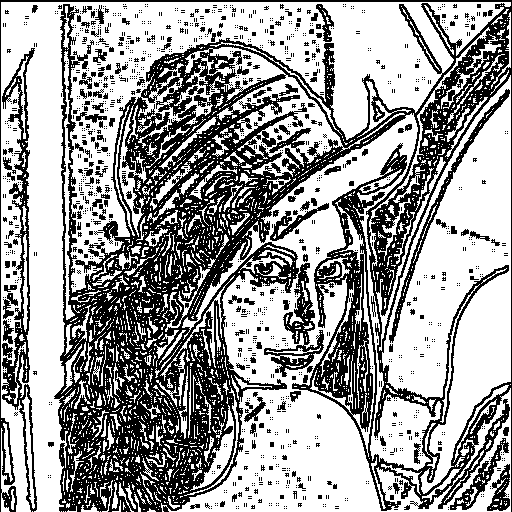
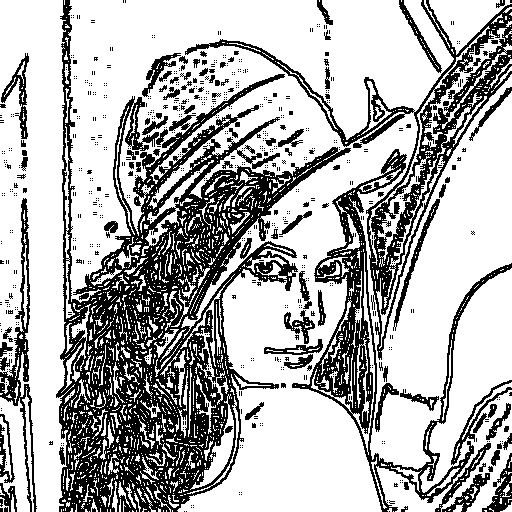
VP functionally done, timing needs to be added.

diff --git a/spec/VP/cpu.cpp b/spec/VP/cpu.cpp
@@ -7,9 +7,11 @@ using namespace std;
 SC_HAS_PROCESS(cpu);
 cpu::cpu(sc_module_name name) : sc_module(name)
 {
+
     SC_THREAD(CPU_process); // Is it thread tho?
     //SC_METHOD(zeroCrossingTest);
     //sensitive << conv::conv_end;
+    CPU_conv_ic_tsoc.register_b_transport(this, &cpu::b_transport);
     SC_REPORT_INFO("CPU", "Platform is constructed.");
 }
 
@@ -153,16 +155,17 @@ void cpu::zeroCrossingTest()
     //TESTING PURPOSES
     //convOut = inputArray;
     //ENDING TEST
+    cout << "1" << endl;
     int sourceHeight = convOut.size();
     int sourceWidth = convOut[1].size();
 
     int negCouter;
     int posCoutner;
-    convOut1D tempMatrixRow;
-
+    matrix1D tempMatrixRow;
+    cout << "2" << endl;
     for (int i = 1; i < sourceHeight - 1; i++)
     {
-        convOut.push_back(tempMatrixRow);
+        outputArray.push_back(tempMatrixRow);
         for (int j = 1; j < sourceWidth - 1; j++)
         {
             negCouter = 0;
@@ -184,11 +187,14 @@ void cpu::zeroCrossingTest()
                     }
                 }
             }
-            outputArray[i - 1].push_back(NO_EDGE);
+            //cout << "op op " << endl;
             if (negCouter > 0 && posCoutner > 0)
             {
                 outputArray[i - 1].push_back(EDGE);
+            }else{
+            outputArray[i - 1].push_back(NO_EDGE);
             }
+            //cout<< "proslo" << endl; 
         }
     }
     SC_REPORT_INFO("CPU", "Zero crossing done.");
@@ -196,7 +202,7 @@ void cpu::zeroCrossingTest()
 
 void cpu::CPU_process()
 {
-    
+
     //sc_core::sc_time loct = sc_core::SC_ZERO_TIME;
     sc_time loct;
     tlm_generic_payload pl;
@@ -233,7 +239,6 @@ void cpu::CPU_process()
 
     writeReadyToConv();
 
-
     //zeroCrossingTest(); // ZC can be tested after convolution is made. Untill then it stays commented.
 
     //writeImageToFile();
@@ -250,35 +255,38 @@ void cpu::b_transport(pl_t &pl, sc_time &offset)
     unsigned int len = pl.get_data_length();
     switch (cmd)
     {
-        case TLM_WRITE_COMMAND:
-            switch (address)
-            {
-            case VP_ADDR_CPU:
-                convOut = *((convOut2D *)pl.get_data_ptr());
-                pl.set_response_status(TLM_OK_RESPONSE);
-                SC_REPORT_INFO("CPU", "Conv result recieved.");
-                break;
+    case TLM_WRITE_COMMAND:
+        switch (address)
+        {
+        case VP_ADDR_CPU:
+            convOut = *((convOut2D *)pl.get_data_ptr());
+            SC_REPORT_INFO("CPU", "Conv result recieved.");
+            zeroCrossingTest();
+            writeImageToFile();
+            pl.set_response_status(TLM_OK_RESPONSE);
             
-            default:
-                SC_REPORT_ERROR("CPU", "Invalid address.");
-                break;
-            }
             break;
+
         default:
-            SC_REPORT_ERROR("CPU", "Invalid TLM COMMAND.");
+            SC_REPORT_ERROR("CPU", "Invalid address.");
             break;
+        }
+        break;
+    default:
+        SC_REPORT_ERROR("CPU", "Invalid TLM COMMAND.");
+        break;
     }
 }
 
-
-void cpu::writeReadyToConv(){
+void cpu::writeReadyToConv()
+{
     sc_time ofset = sc_time(5, SC_NS);
     unsigned char ready = 1;
     tlm_generic_payload pl;
     pl.set_address(VP_ADDR_CONVOLUTION_READY);
     pl.set_data_length(1);
     pl.set_data_ptr((unsigned char *)&ready);
-    pl.set_command( tlm::TLM_WRITE_COMMAND );
-    pl.set_response_status ( tlm::TLM_INCOMPLETE_RESPONSE );
+    pl.set_command(tlm::TLM_WRITE_COMMAND);
+    pl.set_response_status(tlm::TLM_INCOMPLETE_RESPONSE);
     CPU_ic_conv_isoc->b_transport(pl, ofset);
 }

diff --git a/spec/VP/convolution.cpp b/spec/VP/convolution.cpp
@@ -129,7 +129,7 @@ void conv::convolution()
 	// }
 	// cout<< "******************"<< endl;
 
-	SC_float_type sum(10, 32);
+	SC_float_type sum(32, 17);
 	SC_conv_out_t convOutValue;
 	convOut1D convResultTemp;
 	//sum = 0;
@@ -149,7 +149,7 @@ void conv::convolution()
 				{
 
 					sum = sum + (img[i - padding + k][j - padding + l] * kernel[k][l]);
-					cout<< sum << endl;
+					
 				}
 			}
 			if (sum > 0)
@@ -158,30 +158,32 @@ void conv::convolution()
 				convOutValue = -1;
 			if (sum == 0)
 				convOutValue = 0;
-			convResult[i].push_back(convOutValue);
+
+			//cout << sum << endl;
+			convResult[i - padding].push_back(convOutValue);
 		}
 	}
-	for(int u = 0; u < convResult.size(); u++){
-	    for (int f = 0; f < convResult[0].size(); f++){
-	        cout << convResult[u][f] << " ";
-	    }
-	    cout << endl;
-	}
-	cout<< "******************"<< endl;
+	// for(int u = 0; u < convResult.size(); u++){
+	//     for (int f = 0; f < convResult[0].size(); f++){
+	//         cout << convResult[u][f] << " ";
+	//     }
+	//     cout << endl;
+	// }
+	// cout<< "******************"<< endl;
 	//conv_time+=sc_time(5, SC_NS); //for now this takes 5 ns, quantumkeeper still not implemented
-	cout << "prosao konb" << endl;
+	// cout << "prosao konb" << endl;
 	pl.set_address(VP_ADDR_CPU);
 	pl.set_command(TLM_WRITE_COMMAND);
 	pl.set_data_length(convResult.size());
 	pl.set_data_ptr((unsigned char *)&convResult);
 	pl.set_response_status(TLM_INCOMPLETE_RESPONSE);
-	cout << "setovao sve konv" << endl;
-	//CONV_ic_isoc->b_transport(pl, loct); //sending conv_result to memory
-	cout<< "poslao konv" << endl;
+	// cout << "setovao sve konv" << endl;
+	CONV_ic_isoc->b_transport(pl, loct); //sending conv_result to memory
+	// cout<< "poslao konv" << endl;
 	qk.set_and_sync(loct);
 	loct += sc_time(5, SC_NS);
 
-	cout<< "zavrsio konv" << endl;
+	// cout<< "zavrsio konv" << endl;
 	//conv_end.notify();
 
 	//place for triggering a signal that activates zero_crossing or should that be done once the memory i written?

diff --git a/spec/slika_u_txt/txt_to_img.py b/spec/slika_u_txt/txt_to_img.py
@@ -1,0 +1,34 @@
+import cv2
+import numpy
+import math
+from PIL import Image
+#from matplotlib import pyplot
+
+
+with open("outFile.txt", "r") as text_file:
+
+    iksevi = text_file.readlines() #iksevi = redovi
+    kolone = iksevi[1].split(' ')
+    print('iksevi : ',len(iksevi))
+    print('kolone : ',len(kolone))
+    imgArray = numpy.empty([len(iksevi),len(kolone)], dtype=numpy.int16)
+    xerino = 0
+    for x in iksevi:
+        brojevi = x.split(' ')
+        #counter = 0
+        y = 0
+        for broj in brojevi:
+            #if (counter % 3 == 0):
+            #counter = 0
+            if (broj != '\n'):
+                # if (broj == 255):
+                #     broj = 0
+                # else:
+                #     broj = 255
+                imgArray[xerino][y] = int(broj)
+                y+=1
+            #counter+=1
+        xerino+=1
+
+    img = Image.fromarray(imgArray)
+    img.show()

diff --git a/spec/VP/common.hpp b/spec/VP/common.hpp
@@ -14,8 +14,8 @@
 #define BIT_WIDTH_KERNEL 16 // 17 kernel // SC_float_type kernel_val(7, 16)
 #define BIT_WIDTH_KERNEL_POINT 7
 #define SIGMA 1.4
-#define EDGE 255
-#define NO_EDGE 0
+#define EDGE 0
+#define NO_EDGE 255
 
 typedef sc_dt :: sc_fix_fast SC_float_type;
 typedef sc_dt :: sc_uint <8> SC_pixel_value_type; // 0 255
